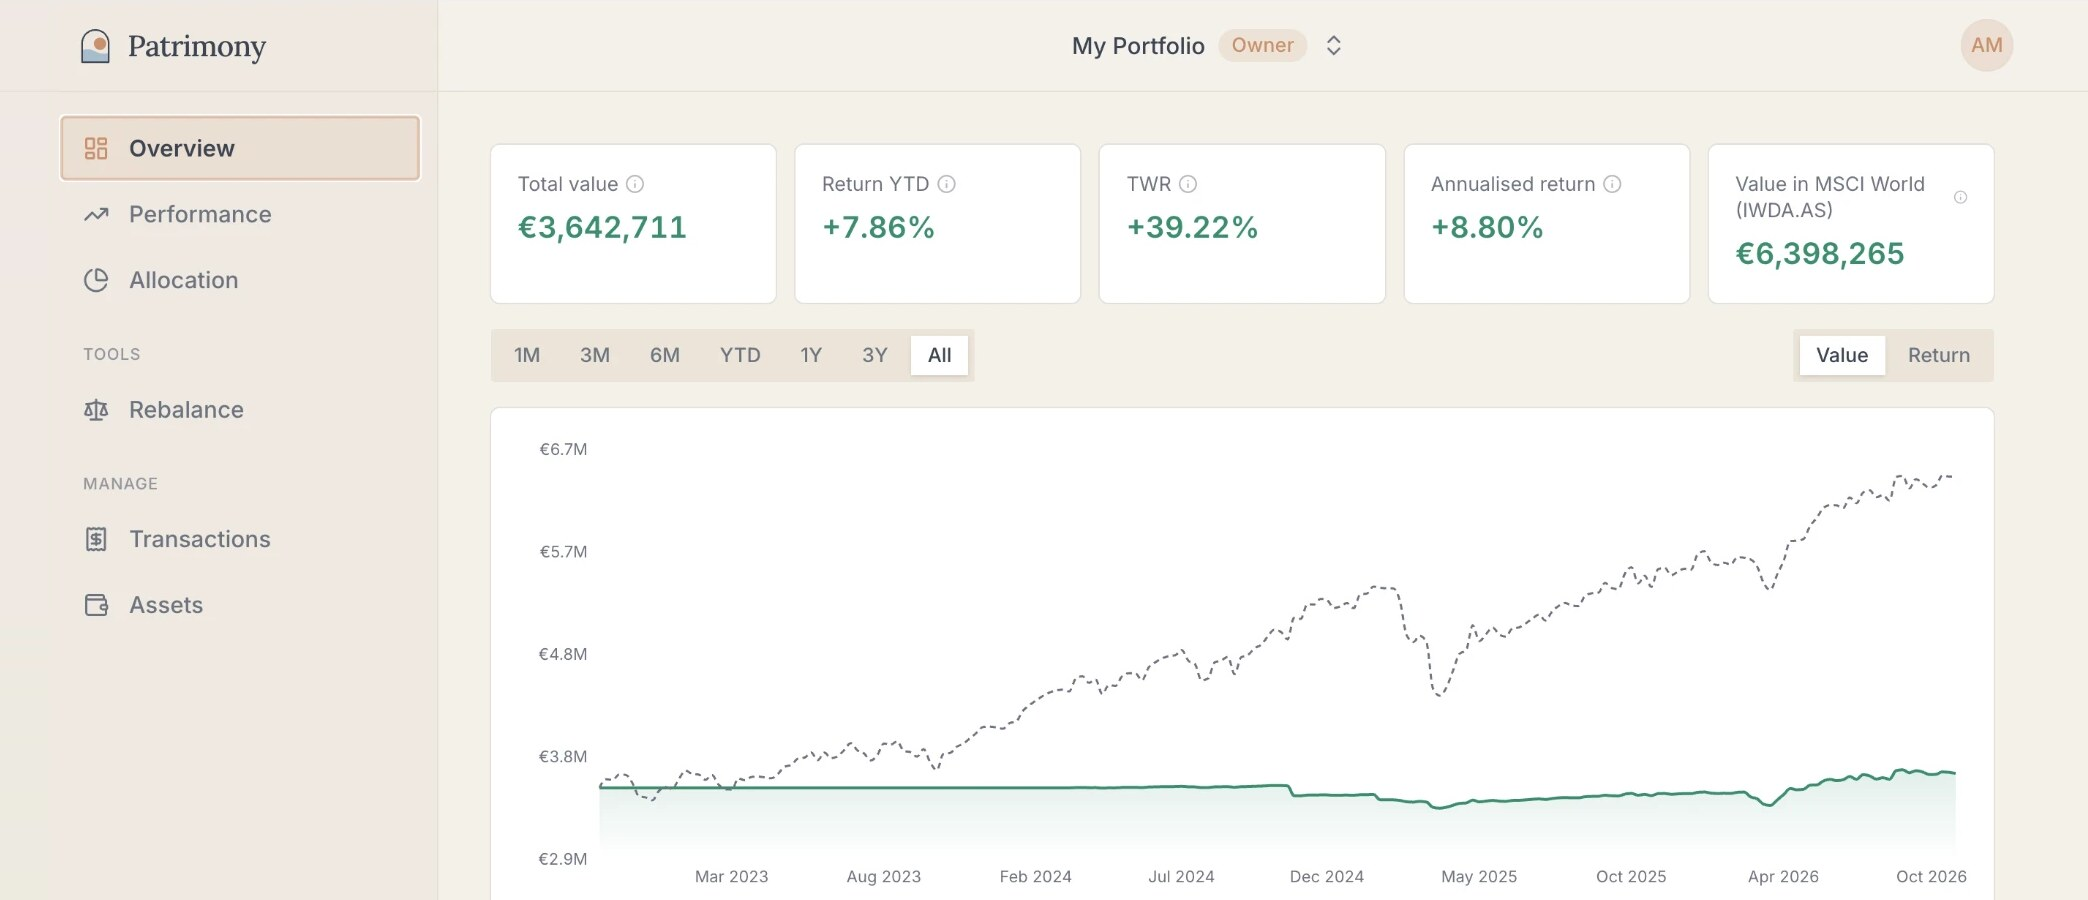
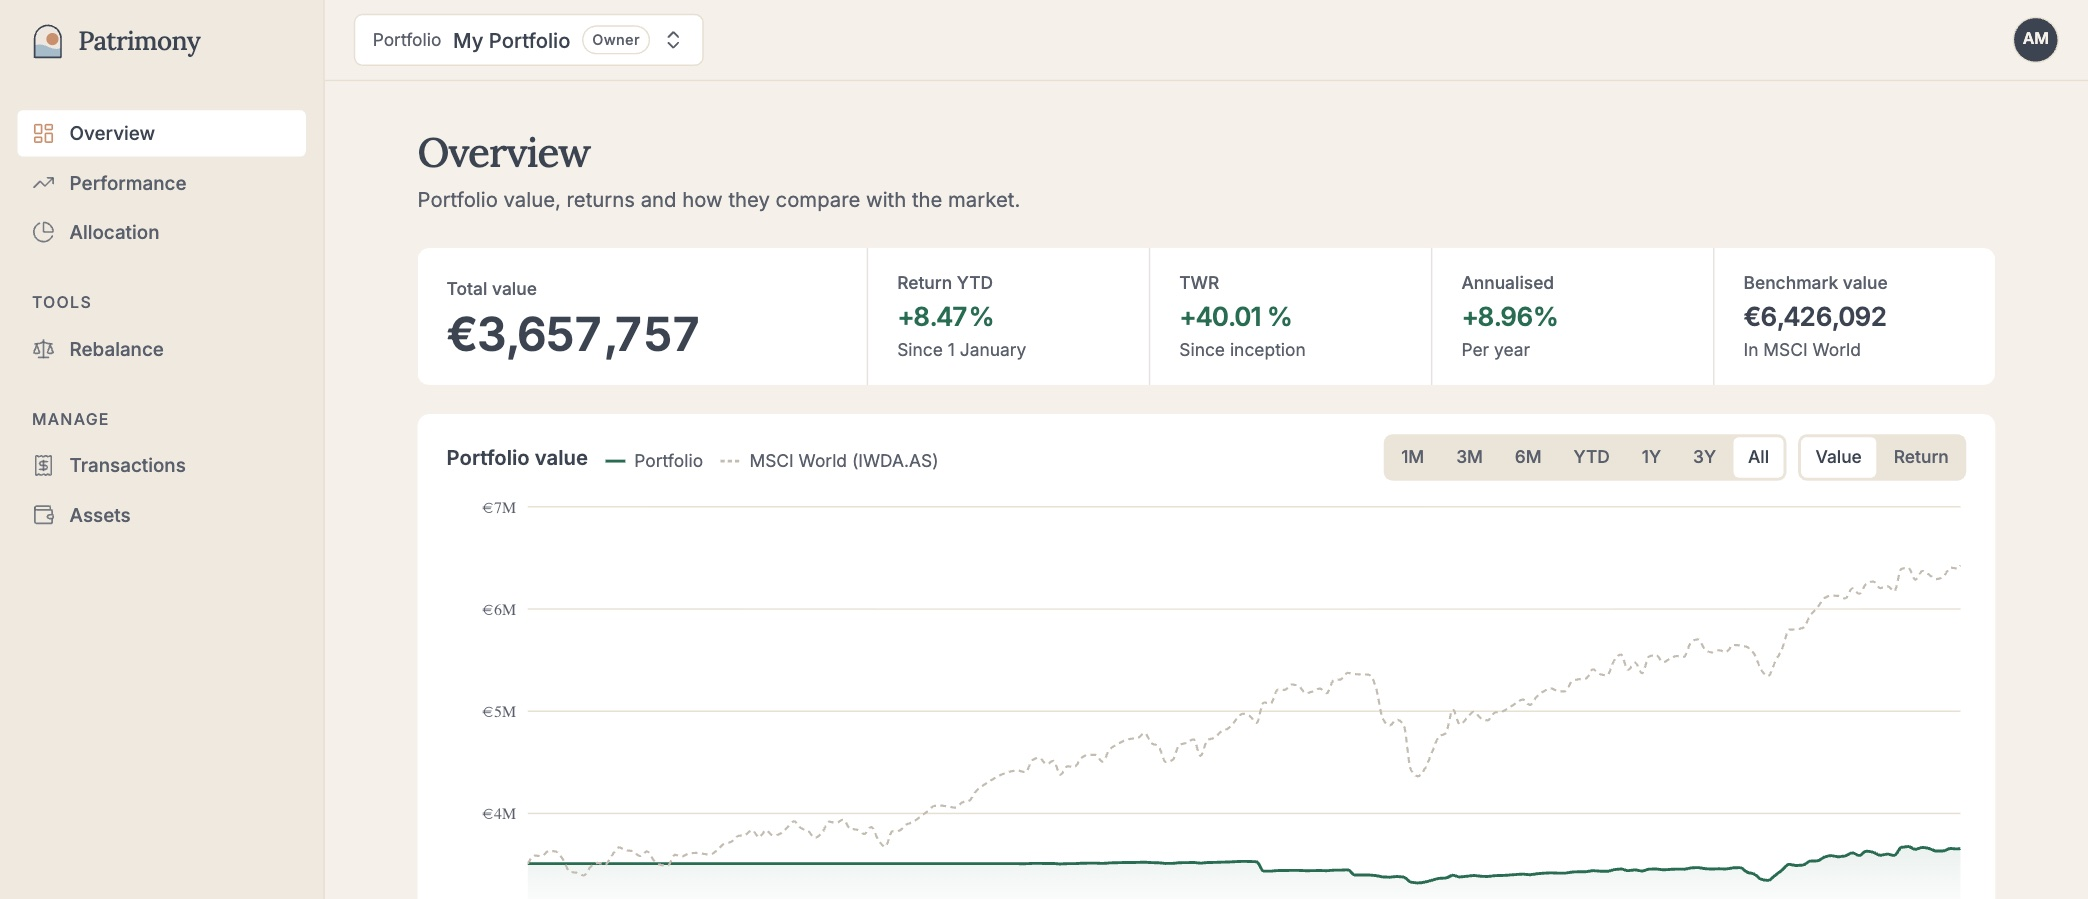
Refresh Patrimony screenshot with the redesigned dashboard

diff --git a/src/components/Portfolio.jsx b/src/components/Portfolio.jsx
@@ -35,7 +35,7 @@ const projects = [
     href: "https://patrimony-neon.vercel.app/",
     repo: "https://github.com/brieucdegoussencourt/patrimony",
     image: "/projects/patrimony.jpg",
-    imageAlt: "Patrimony overview dashboard — portfolio value, returns and a performance chart against the MSCI World",
+    imageAlt: "Patrimony overview dashboard — total value, returns and a portfolio value chart against the MSCI World",
   },
   {
     index: "03",
